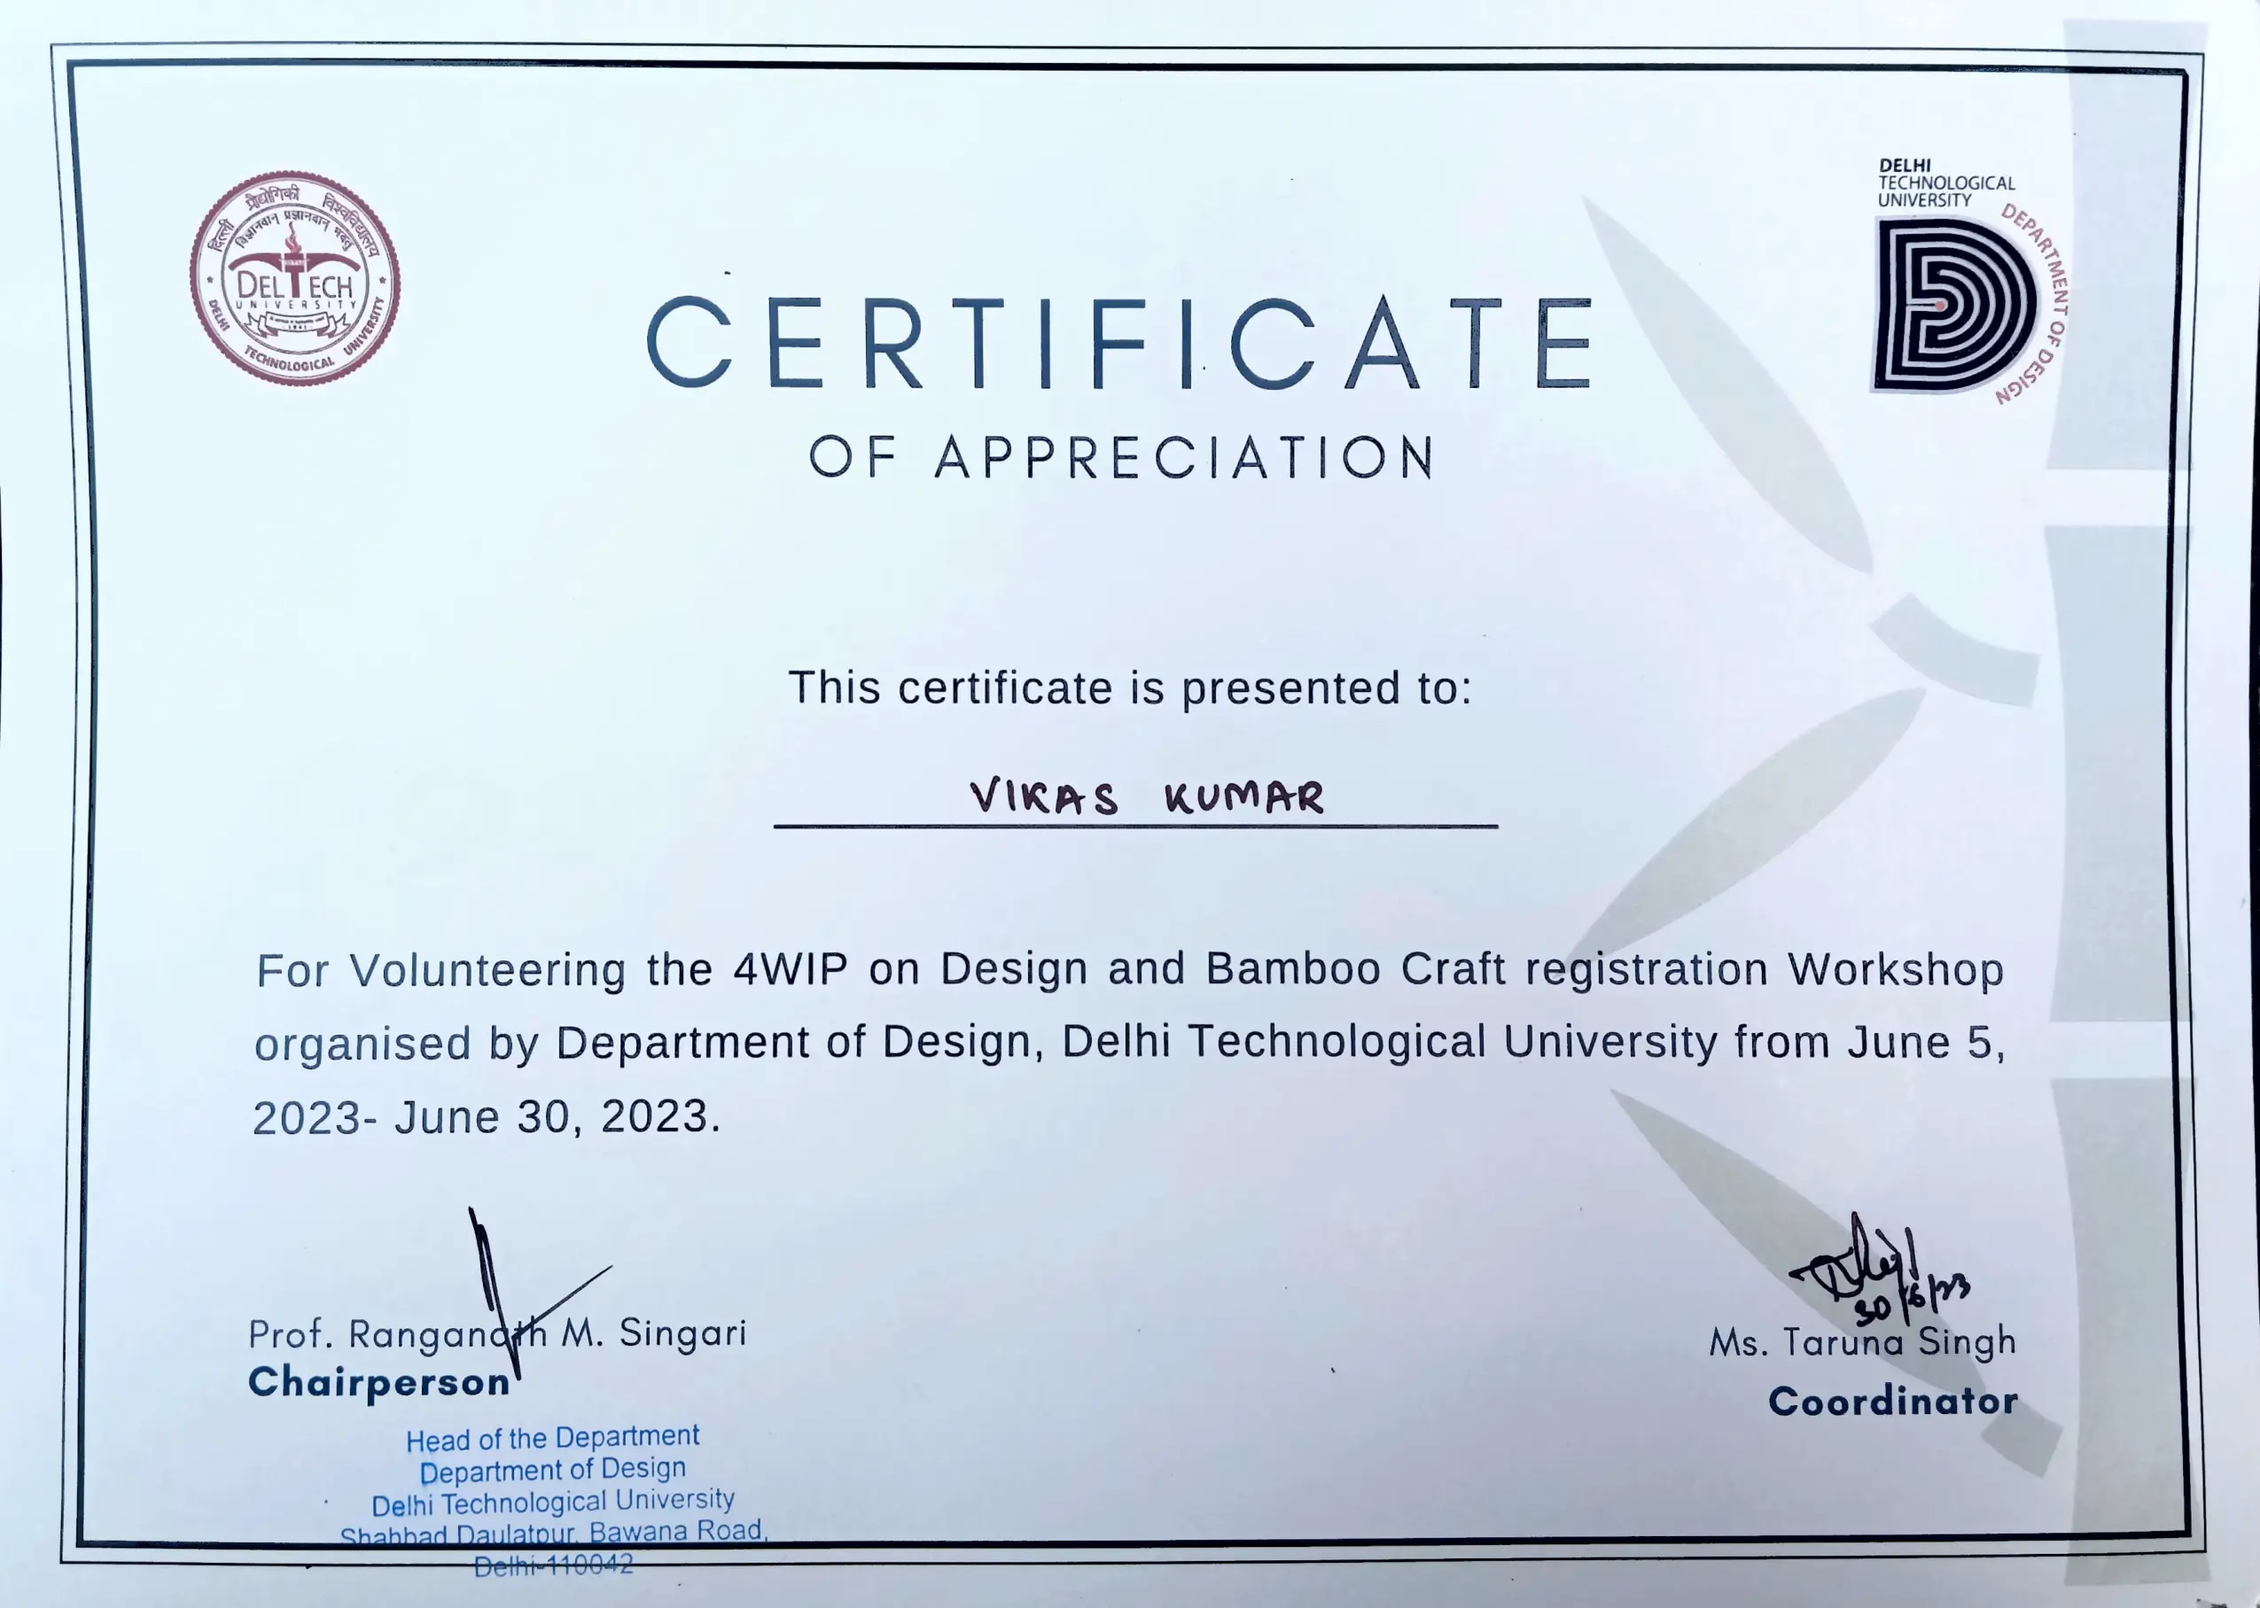
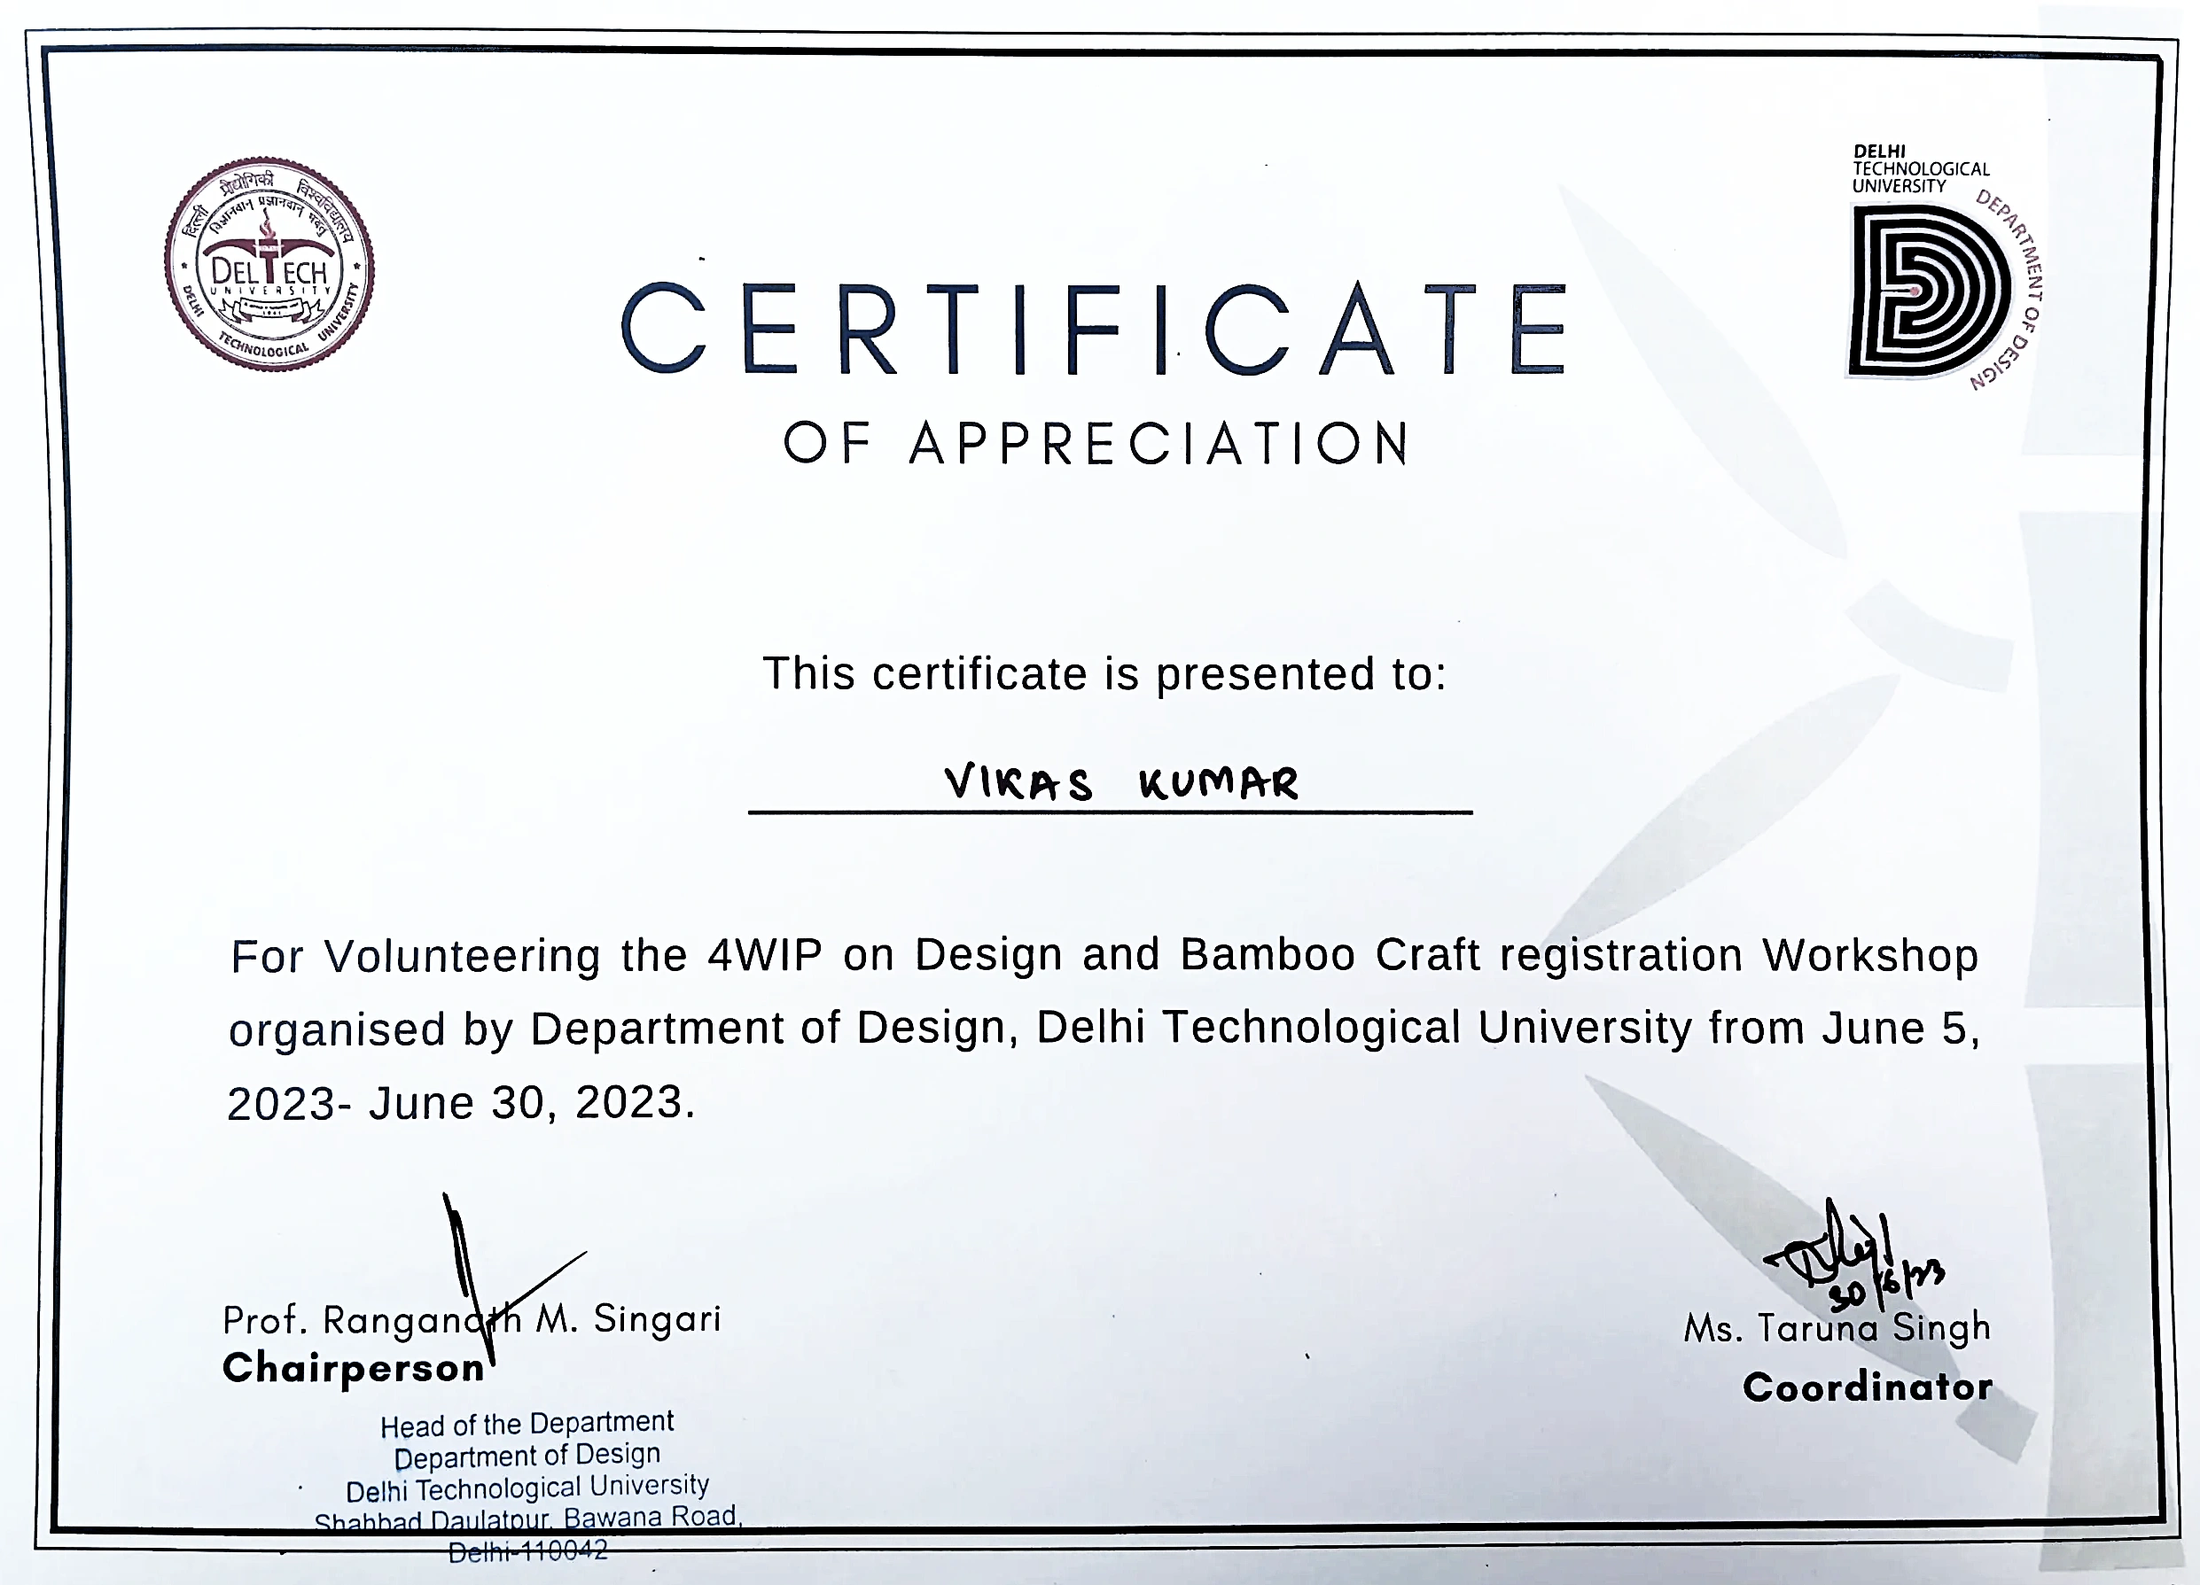
CERTIFICATE CHANGES AND SOME MINOR CODE CHANGES

diff --git a/src/components/portfolio/Work.jsx b/src/components/portfolio/Work.jsx
@@ -13,7 +13,7 @@ const products = [
 
   {
     id: 1,
-    name: "ARKA",
+    name: "Arka",
     description: "2025",
     color: "White/Navy",
     imageUrl: ARKA
@@ -35,29 +35,29 @@ const products = [
     imageUrl: Snakehead
   },
 
-  {
-    id: 4,
-    name: "Kafesa",
-    description: "2023",
-    color: "White/Silver",
-    imageUrl: Kafesa
-  },
+  // {
+  //   id: 5,
+  //   name: "Kafesa",
+  //   description: "2023",
+  //   color: "White/Silver",
+  //   imageUrl: Kafesa
+  // },
   
   {
-    id: 5,
+    id: 4,
     name: "Horizon",
     description: "2023",
     color: "White/Silver",
     imageUrl: Horizon
   },
 
-  {
-    id: 6,
-    name: "Retrowrap",
-    description: "2023",
-    color: "Silver/White",
-    imageUrl: Retrowrap
-  },
+  // {
+  //   id: 6,
+  //   name: "Retrowrap",
+  //   description: "2023",
+  //   color: "Silver/White",
+  //   imageUrl: Retrowrap
+  // },
   
   
 ];
@@ -135,9 +135,10 @@ const Work = () => {
 
         {/* Optional additional overlay */}
         <div className="absolute inset-0 bg-white bg-opacity-30 opacity-0 group-hover:opacity-100 transition-opacity duration-300 flex flex-col text-gray-800 md:pl-24 pl-4 pt-10">
-          <h3 className="text-sm text-gray-800 font-bold mb-2 ">{product.name}</h3>
-          <p className="text-sm text-gray-800">{product.description}</p>
+          <h3 className="text-base font-neuemontreal font-bold mb-1">{product.name}</h3>
+          <p className="text-l font-neuemontreal">{product.description}</p>
         </div>
+
       </div>
     ))}
   </div>

diff --git a/tailwind.config.js b/tailwind.config.js
@@ -4,6 +4,9 @@ module.exports = {
   content: ["./index.html", "./src/**/*.{ts,tsx,js,jsx}"],
   theme: {
     extend: {
+      fontFamily: {
+        neuemontreal: ['"Neue Montreal"', 'sans-serif'],
+      },
       borderRadius: {
         lg: 'var(--radius)',
         md: 'calc(var(--radius) - 2px)',

diff --git a/src/constants/projects.js b/src/constants/projects.js
@@ -367,7 +367,7 @@ export const projects = [
   },
   {
     id: 1,
-    title: "ARKA",
+    title: "Arka",
     subtitle: "Industrial Design Project",
     type: "Personal Project",
     duration: "6 weeks",
